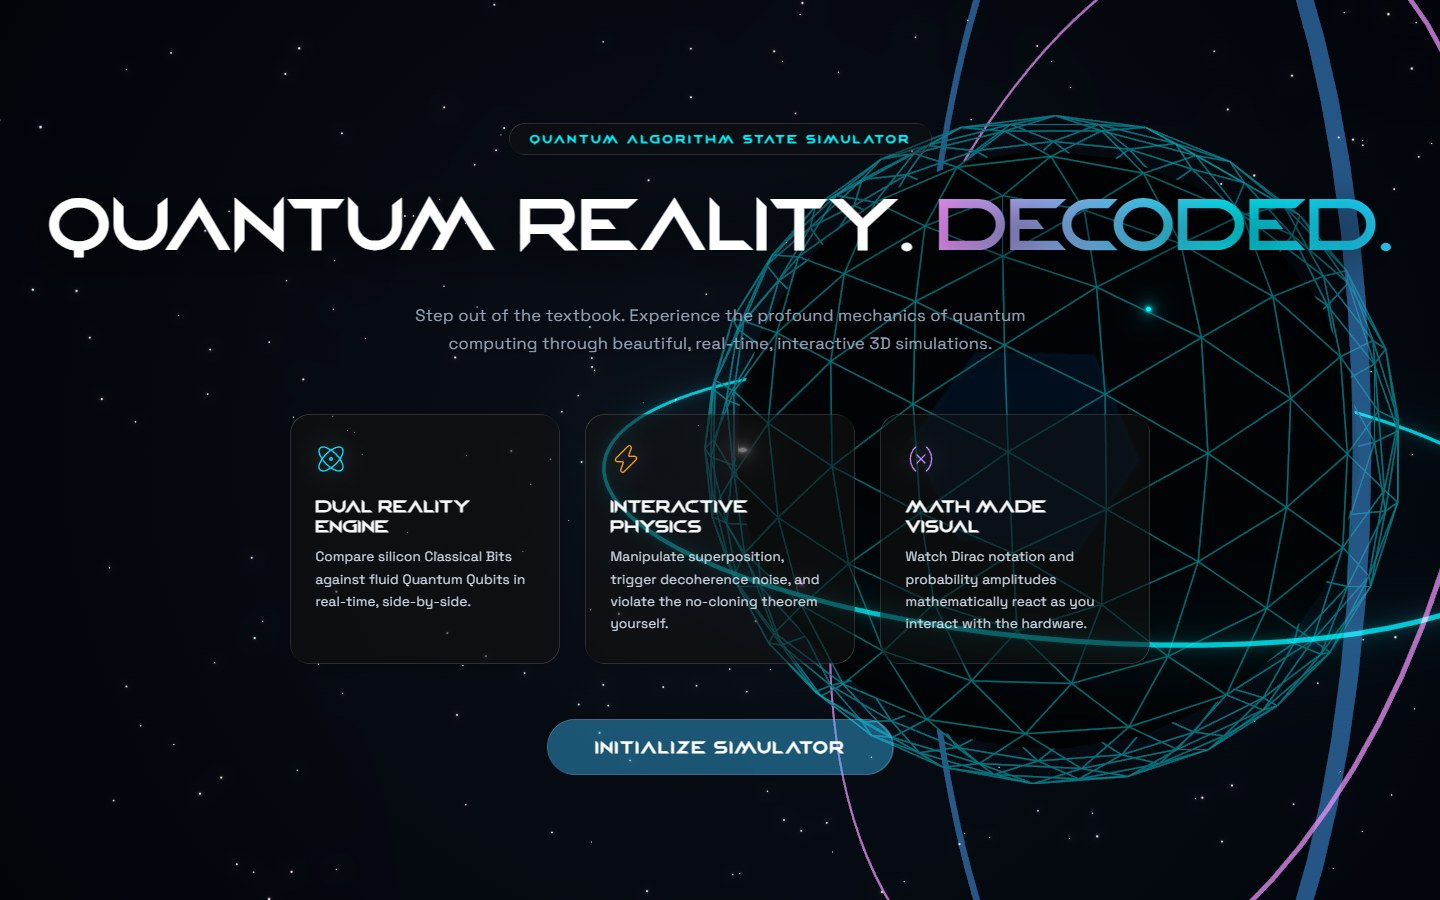
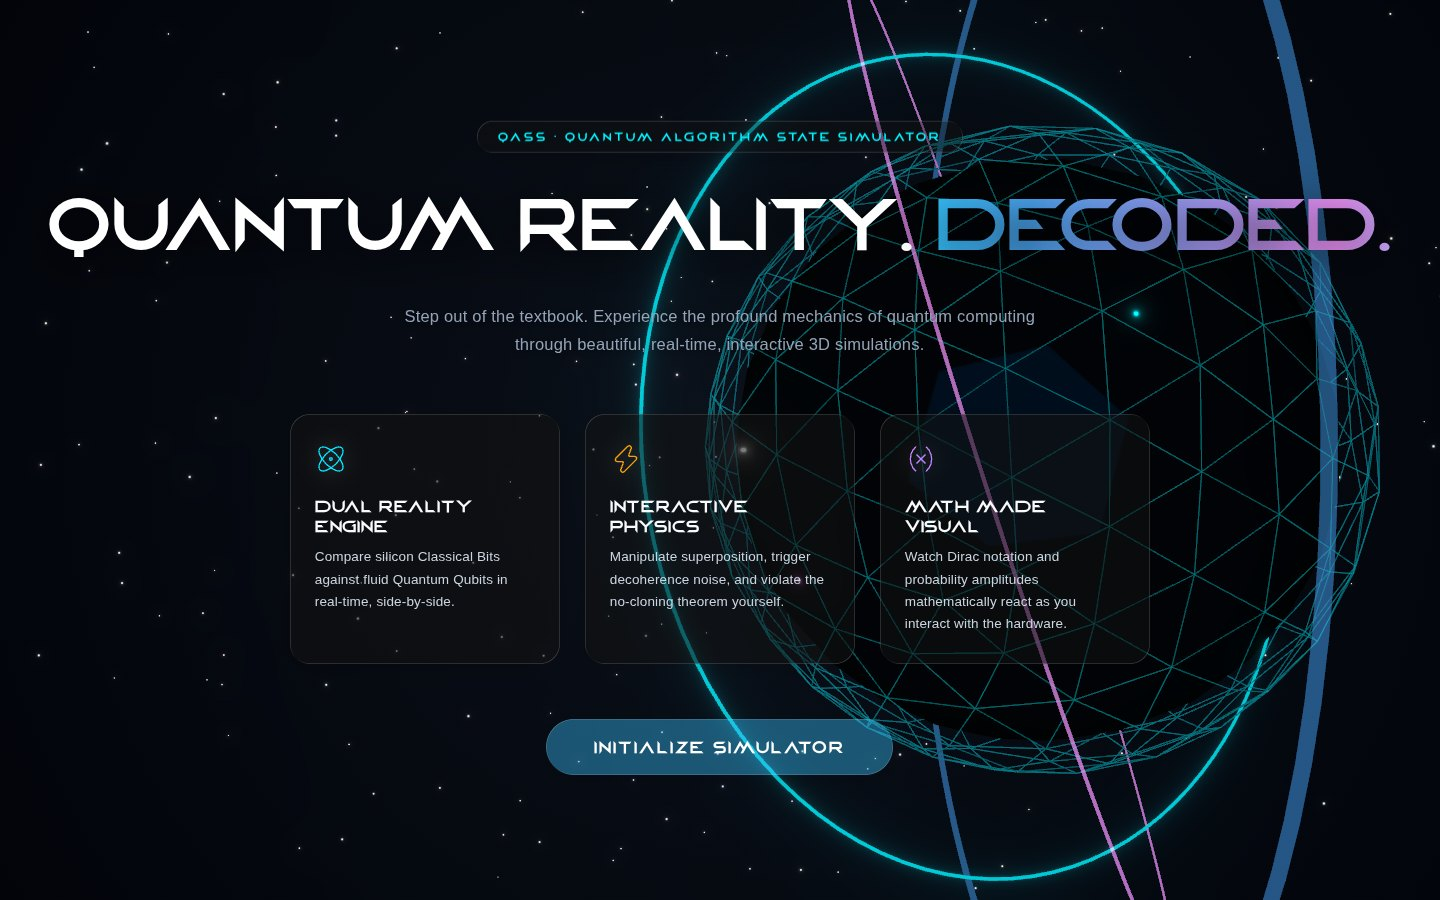
Rename the app from QVerse to QASS
QASS stands for Quantum Algorithm State Simulator, the phrase already on
the landing page's badge. Use the name everywhere a visitor or search
engine sees it: the page and module tab titles, Open Graph tags, the web
manifest, the landing badge ("QASS · Quantum Algorithm State
Simulator"), the sidebar header, the narrow-screen message, the module
load-error card and the README. Regenerate the link-preview image and
the README's landing screenshot from the renamed landing page.

The GitHub repository is still named QVerse, so the README's clone
command keeps that URL.

Claude-Session: https://claude.ai/code/session_01LJvh9GHnFLVLsCVYEbZzGj

diff --git a/src/App.jsx b/src/App.jsx
@@ -74,7 +74,7 @@ const readModuleSetting = (key) => {
   const id = readStorage(key);
   return isModuleId(id) ? id : null;
 };
-const BASE_TITLE = 'QVerse · Interactive Quantum Computing Simulator';
+const BASE_TITLE = 'QASS · Quantum Algorithm State Simulator';
 
 // ==========================================
 // 11-MODULE CURRICULUM DATA STRUCTURE
@@ -1360,7 +1360,7 @@ function App() {
   }, []);
   useEffect(() => {
     const title = curriculumData.find(m => m.id === activeModuleId)?.title;
-    document.title = title ? `${title} · QVerse` : BASE_TITLE;
+    document.title = title ? `${title} · QASS` : BASE_TITLE;
   }, [activeModuleId]);
 
   // Remember the visitor's choices between visits. "Continue" offers the
@@ -1522,8 +1522,8 @@ function App() {
       <div className="mobile-blocker-overlay">
         <LiquidGlassEffects />
         <div className="glass-card mobile-blocker-card">
-          <img src="/logo.jpg" alt="Quantum Simulator Logo" style={{ width: '80px', height: '80px', borderRadius: '16px', objectFit: 'cover', marginBottom: '24px', boxShadow: '0 8px 32px rgba(79, 172, 254, 0.3)' }} />
-          <h2 style={{ fontSize: '24px', fontWeight: 'bold', marginBottom: '15px', color: 'var(--text-primary)' }}>Quantum Simulator</h2>
+          <img src="/logo.jpg" alt="QASS logo" style={{ width: '80px', height: '80px', borderRadius: '16px', objectFit: 'cover', marginBottom: '24px', boxShadow: '0 8px 32px rgba(79, 172, 254, 0.3)' }} />
+          <h2 style={{ fontSize: '24px', fontWeight: 'bold', marginBottom: '15px', color: 'var(--text-primary)' }}>QASS</h2>
           <p style={{ fontSize: '16px', color: 'var(--text-secondary)', lineHeight: '1.5', marginBottom: '20px' }}>
             This immersive 3D quantum experience requires a larger screen to run properly.
           </p>
@@ -1553,7 +1553,7 @@ function App() {
         </div>
 
         <div className="landing-overlay">
-          <div className="hero-badge">Quantum Algorithm State Simulator</div>
+          <div className="hero-badge">QASS · Quantum Algorithm State Simulator</div>
           <h1 className="hero-title">Quantum Reality. <span>Decoded.</span></h1>
           <p className="hero-subtitle">
             Step out of the textbook. Experience the profound mechanics of quantum computing through beautiful, real-time, interactive 3D simulations.
@@ -1873,7 +1873,7 @@ function App() {
             <div className="sidebar-branding">
               <img src="/logo.jpg" alt="Logo" />
               <div className="sidebar-branding-text">
-                <span className="sidebar-branding-title">Quantum Simulator</span>
+                <span className="sidebar-branding-title">QASS</span>
                 <span className="sidebar-branding-tag">Interactive Suite</span>
               </div>
             </div>

diff --git a/index.html b/index.html
@@ -7,26 +7,26 @@
     <meta name="theme-color" content="#000000" />
     <meta
       name="description"
-      content="QVerse: an interactive 3D quantum computing simulator. Learn qubits, gates, interference, entanglement and error correction by playing with them."
+      content="QASS (Quantum Algorithm State Simulator): an interactive 3D quantum computing simulator. Learn qubits, gates, interference, entanglement and error correction by playing with them."
     />
     <link rel="apple-touch-icon" href="/logo192.png" />
     <link rel="manifest" href="/manifest.json" />
     <link rel="canonical" href="https://qass.vercel.app/" />
     <!-- Link previews (WhatsApp, X, Discord, Slack, LinkedIn). Image URLs must be absolute. -->
     <meta property="og:type" content="website" />
-    <meta property="og:site_name" content="QVerse" />
-    <meta property="og:title" content="QVerse · Interactive Quantum Computing Simulator" />
+    <meta property="og:site_name" content="QASS" />
+    <meta property="og:title" content="QASS · Quantum Algorithm State Simulator" />
     <meta property="og:description" content="Learn quantum computing by playing with it: Bloch spheres, gates, interference, entanglement and error correction in live 3D." />
     <meta property="og:url" content="https://qass.vercel.app/" />
     <meta property="og:image" content="https://qass.vercel.app/og-image.jpg" />
     <meta property="og:image:width" content="1200" />
     <meta property="og:image:height" content="630" />
-    <meta property="og:image:alt" content="QVerse landing page: Quantum Reality. Decoded." />
+    <meta property="og:image:alt" content="QASS landing page: Quantum Reality. Decoded." />
     <meta name="twitter:card" content="summary_large_image" />
     <link rel="preconnect" href="https://fonts.googleapis.com">
     <link rel="preconnect" href="https://fonts.gstatic.com" crossorigin>
     <link href="https://fonts.googleapis.com/css2?family=Fira+Code:wght@400;500;600;700&family=Inter:wght@300;400;500;600;700;800;900&family=Space+Grotesk:wght@300;400;500;600;700&display=swap" rel="stylesheet">
-    <title>QVerse · Interactive Quantum Computing Simulator</title>
+    <title>QASS · Quantum Algorithm State Simulator</title>
   </head>
   <body>
     <noscript>You need to enable JavaScript to run this app.</noscript>

diff --git a/src/ModuleErrorBoundary.jsx b/src/ModuleErrorBoundary.jsx
@@ -52,7 +52,7 @@ export default class ModuleErrorBoundary extends React.Component {
           </div>
           <p style={{ fontSize: '14px', color: 'var(--text-secondary)', lineHeight: 1.55, margin: '0 0 20px' }}>
             {loadFailure
-              ? 'Part of the simulator could not be downloaded. Check your connection, or QVerse may have just been updated.'
+              ? 'Part of the simulator could not be downloaded. Check your connection, or QASS may have just been updated.'
               : 'Something went wrong while running this module.'}
           </p>
           <div style={{ display: 'flex', gap: '10px', justifyContent: 'center' }}>

diff --git a/src/QuantumNavButtons.jsx b/src/QuantumNavButtons.jsx
@@ -8,7 +8,7 @@ const cleanNextText = (text) => (text || '').replace(/[→▶►➔>✓]/g, '').
 /**
  * 🔮 QuantumNavButtons
  * Universal Glass Next & Prev Dynamic Navigation Controller
- * Designed specifically for all modules in the Quantum Simulator.
+ * Designed specifically for all modules in QASS.
  */
 export const QuantumNavButtons = memo(function QuantumNavButtons({
   onPrev,

diff --git a/README.md b/README.md
@@ -1,12 +1,12 @@
-# QVerse
+# QASS
 
-**Quantum Reality. Decoded.** QVerse is an interactive 3D quantum computing simulator that teaches the core ideas of quantum computing by letting you play with them, instead of reading about them.
+**Quantum Reality. Decoded.** QASS (Quantum Algorithm State Simulator) is an interactive 3D quantum computing simulator that teaches the core ideas of quantum computing by letting you play with them, instead of reading about them.
 
 Eleven guided modules take you from the difference between a bit and a qubit, through gates, interference and entanglement, up to decoherence and error correction. Every concept is a live, real-time scene: you rotate Bloch spheres, fire gates, collapse wavefunctions and watch the math update as you do it.
 
 **Live demo:** https://qass.vercel.app
 
-![QVerse landing page](docs/screenshots/01-landing.jpg)
+![QASS landing page](docs/screenshots/01-landing.jpg)
 
 ## Features
 
